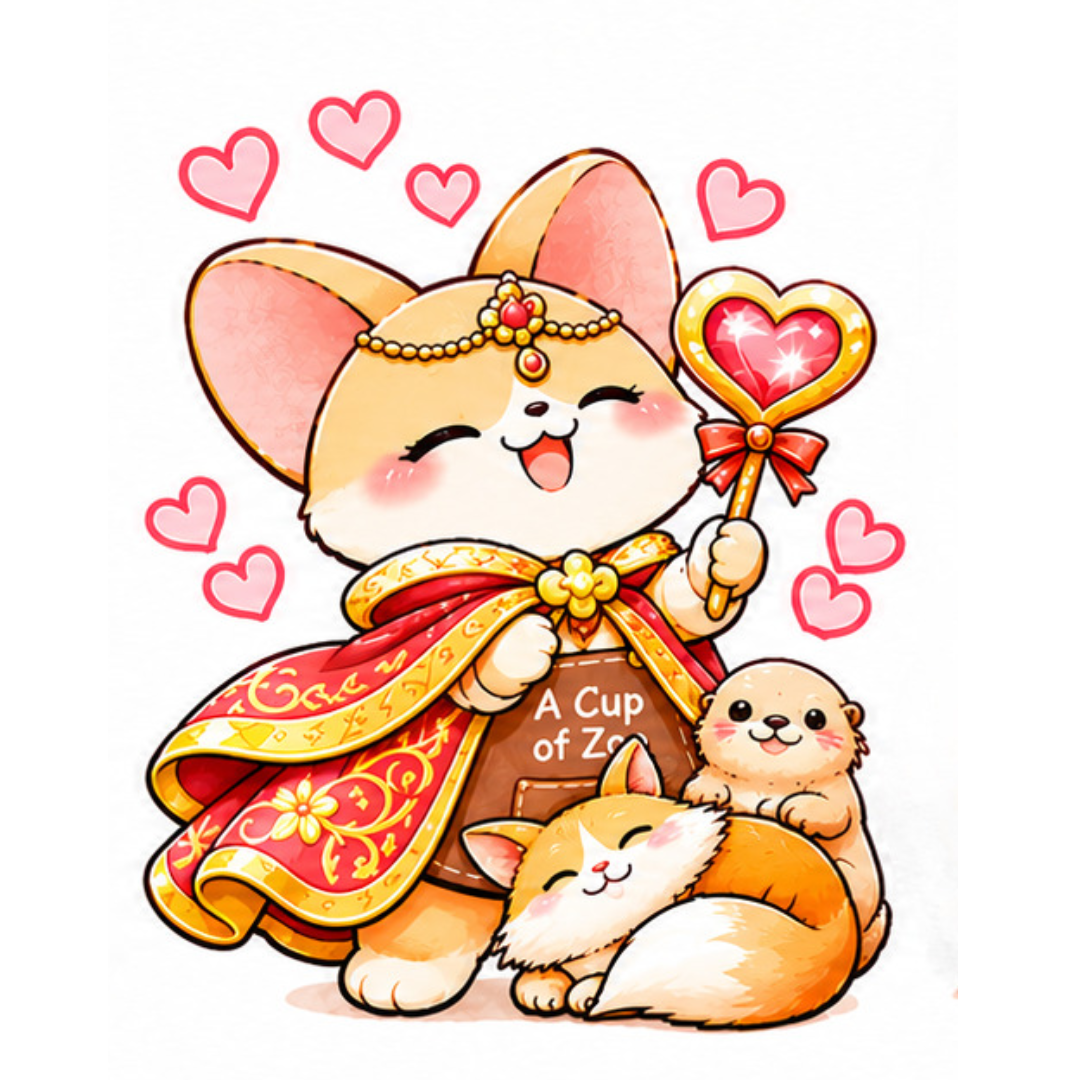
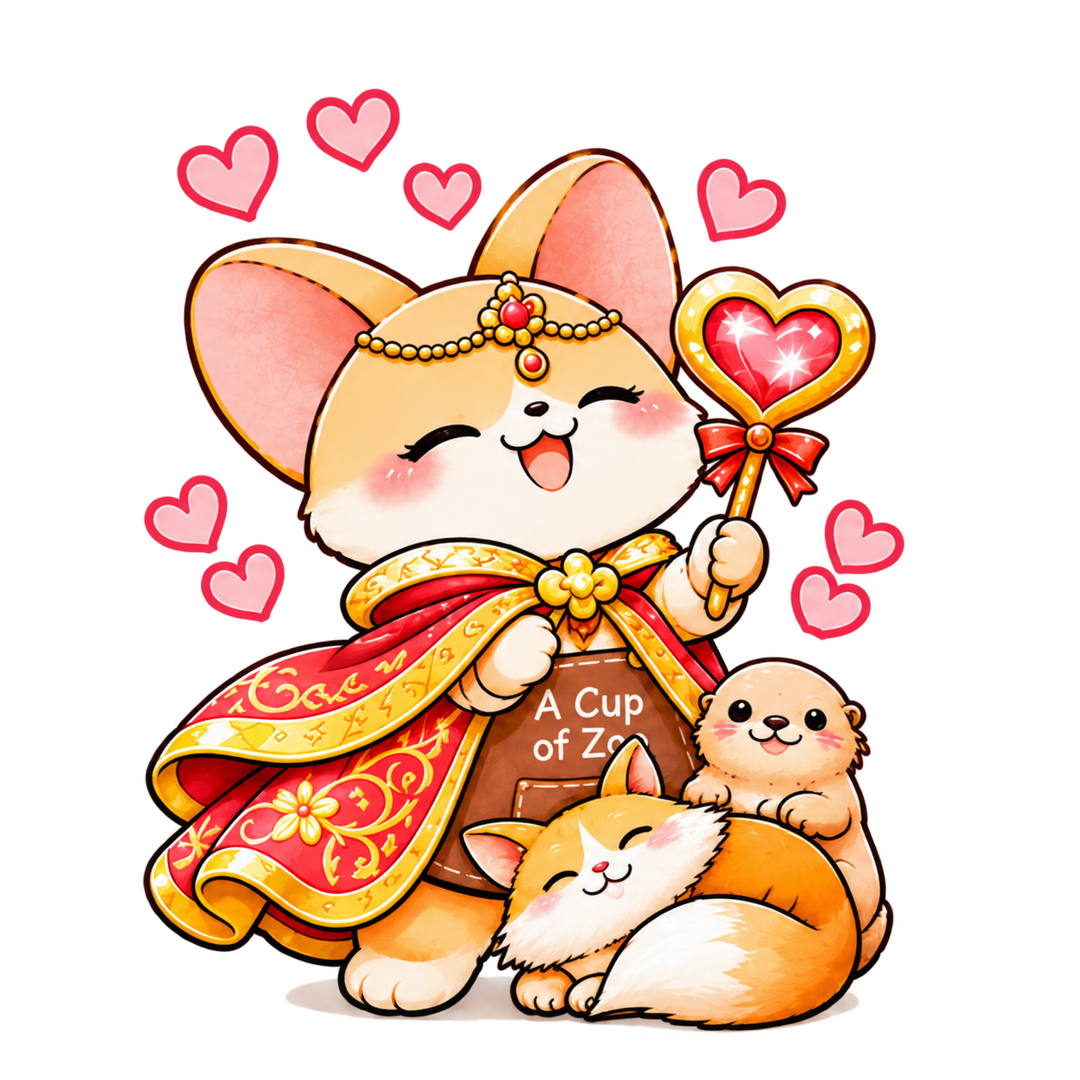
Remove white backgrounds from Zoo Clubs tier artwork

diff --git a/src/assets/club/PROMPTS.md b/src/assets/club/PROMPTS.md
@@ -1,6 +1,6 @@
 # Zoo Clubs tier artwork
 
-The current tier images come from the owner's [Membership folder](https://drive.google.com/drive/folders/1beo6R8-Pn0URSRFVv6BtPYeJW6dpPc0i). The 1080 × 1080 originals keep their full backgrounds. Astro serves responsive WebP versions, and tier names and benefits are rendered in HTML.
+The current tier images come from the owner's [Membership folder](https://drive.google.com/drive/folders/1beo6R8-Pn0URSRFVv6BtPYeJW6dpPc0i). The website uses transparent cutouts of the 1080 × 1080 originals. Astro serves responsive WebP versions, and tier names and benefits are rendered in HTML.
 
 | Tier     | Drive original | Website source |
 | -------- | -------------- | -------------- |
